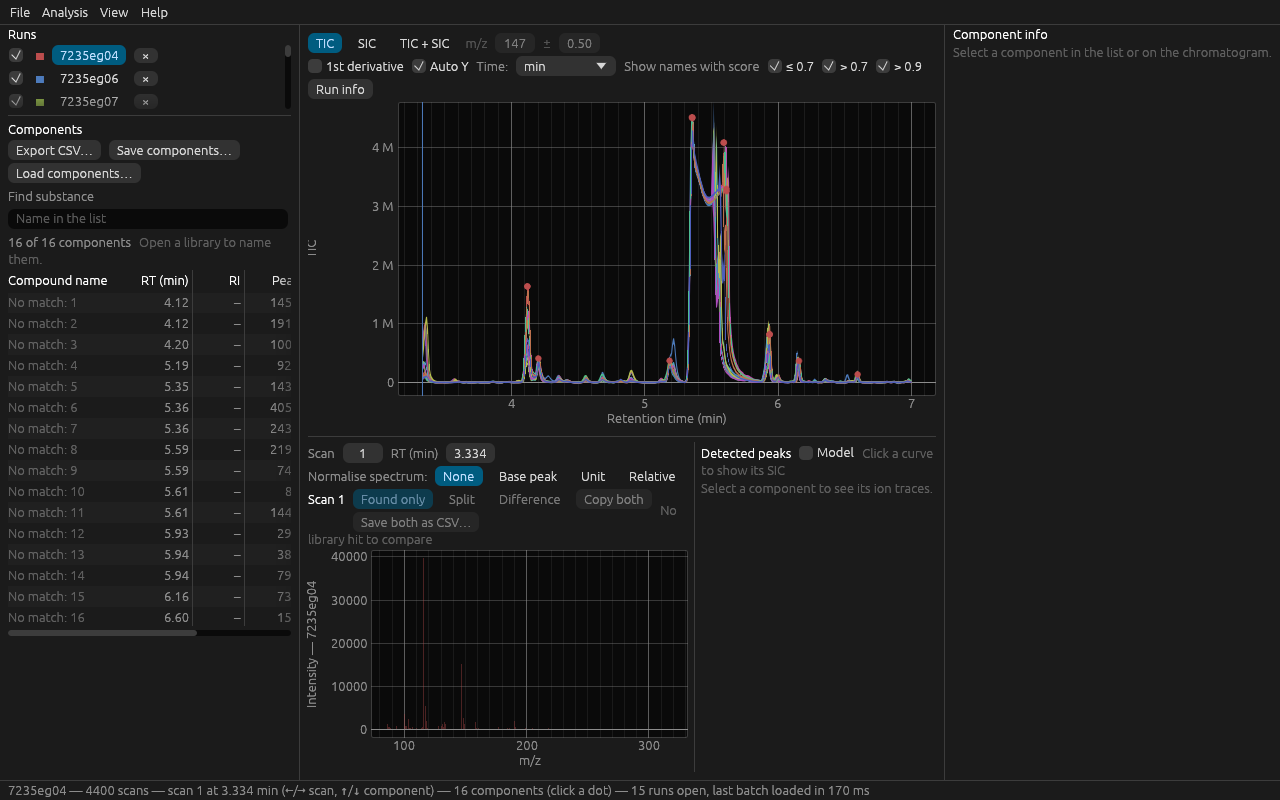
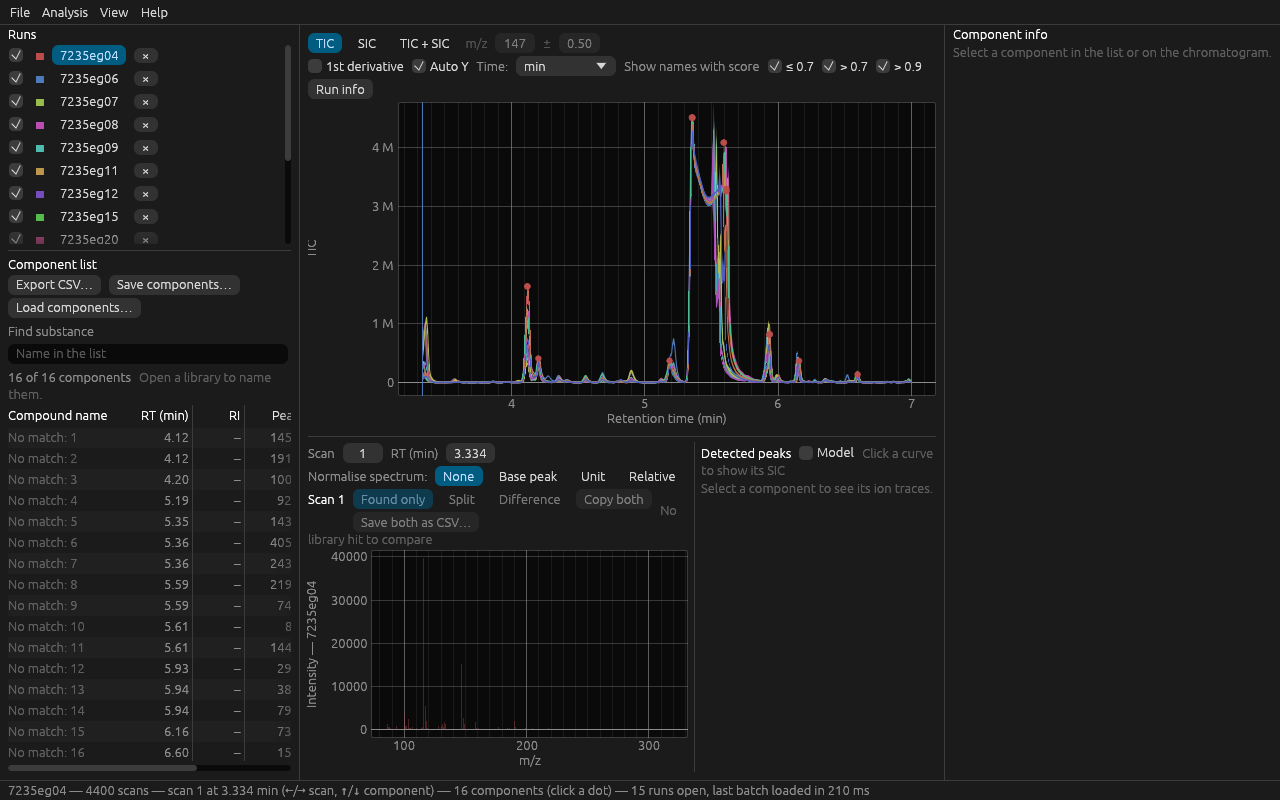
Review-Befunde zu #251
- Component list cache keyed by the run's data (weak) and calibration value, so a closed run
  never shows its rows for another one.
- List and component info use the run's own calibration (Calibration::for_run).
- Left/right arrows leave text fields alone.
- A hidden plot offers no picture export and says how to show it.
- TIC zoom reset keyed by the run's data, not its path.
- Detected Peaks: own zoom per component, a click picks a curve within 12 px.
- Heading "Component list" like the View menu, Clear hover, DESIGN.md line, shared num().

diff --git a/crates/md-app/src/results.rs b/crates/md-app/src/results.rs
@@ -5,9 +5,11 @@
 
 use eframe::egui;
 use egui_extras::{Column, TableBuilder};
+use md_core::Chromatogram;
 use md_core::results::{ResultRow, find_substance, result_rows, write_csv};
 use md_core::ri::RiCalibration;
 use md_core::search::Identification;
+use std::sync::{Arc, Weak};
 
 use crate::Run;
 use crate::identify::Library;
@@ -98,9 +100,13 @@ struct Row {
     ions: usize,
 }
 
-/// What the cached rows were built from: active run, its `rev`, and the calibration used without
-/// a library.
-type Stamp = (usize, u64, Option<usize>);
+/// What the cached rows were built from: the run's data, its `rev`, and the calibration used without
+/// a library. The data is held weakly, so a closed run never matches a new one at the same address.
+type Stamp = (Weak<Chromatogram>, u64, Option<RiCalibration>);
+
+fn same(a: &Stamp, b: &Stamp) -> bool {
+    a.0.ptr_eq(&b.0) && a.1 == b.1 && a.2 == b.2
+}
 
 #[derive(Default)]
 pub struct Results {
@@ -115,22 +121,17 @@ pub struct Results {
 }
 
 impl Results {
-    /// The list of the active run; `cal` gives the RI while no library identified the run.
-    pub fn panel(
-        &mut self,
-        ui: &mut egui::Ui,
-        run: Option<&mut Run>,
-        active: usize,
-        cal: Option<&RiCalibration>,
-    ) {
-        ui.strong("Components");
+    /// The list of the active run; `cal` (the run's calibration) gives the RI while no library
+    /// identified the run.
+    pub fn panel(&mut self, ui: &mut egui::Ui, run: Option<&mut Run>, cal: Option<&RiCalibration>) {
+        ui.strong("Component list");
         let Some(run) = run else {
             return;
         };
         let lib = (run.ident.as_ref()).map(|((lib, ..), ..)| lib.clone());
         let cal = cal.filter(|_| lib.is_none());
-        let stamp = (active, run.rev, cal.map(|c| std::ptr::from_ref(c) as usize));
-        let mut cache = self.cache.take().filter(|c| c.0 == stamp);
+        let stamp = (Arc::downgrade(&run.data), run.rev, cal.cloned());
+        let mut cache = self.cache.take().filter(|c| same(&c.0, &stamp));
         if cache.is_none() {
             cache = Some((stamp, build_rows(run, cal)));
             self.looked_up = None;
@@ -163,7 +164,11 @@ impl Results {
                 }),
             )
             .labelled_by(label.id);
-            if !self.filter.is_empty() && ui.button("Clear").clicked() {
+            if !self.filter.is_empty()
+                && (ui.button("Clear"))
+                    .on_hover_text("Clear the search and show every component")
+                    .clicked()
+            {
                 self.filter.clear();
                 self.looked_up = None;
             }
@@ -446,7 +451,7 @@ fn header_cell(ui: &mut egui::Ui, sort: &mut Option<(Col, bool)>, col: Col) {
 
 /// Cell text as the old table showed it (a missing value as a dash).
 fn cell(r: &Row, col: Col) -> String {
-    let num = |v: Option<f64>, digits: usize| v.map_or("–".into(), |v| format!("{v:.digits$}"));
+    use crate::detail::num;
     let res = &r.res;
     match col {
         Col::Name => res.name.clone(),
@@ -649,7 +654,7 @@ pub(crate) mod tests {
             events,
             ..Default::default()
         };
-        ctx.run_ui(input, |ui| r.panel(ui, Some(run), 0, cal))
+        ctx.run_ui(input, |ui| r.panel(ui, Some(run), cal))
             .textures_delta
             .clear();
     }
@@ -770,5 +775,10 @@ pub(crate) mod tests {
         run.rev += 1;
         draw(&mut r, &mut run, None, Vec::new());
         assert_eq!(r.cache.as_ref().unwrap().1.len(), 1);
+        // Another run with the same `rev` (the active one was closed) gets its own rows.
+        let mut other = super::tests::run();
+        other.rev = run.rev;
+        draw(&mut r, &mut other, None, Vec::new());
+        assert_eq!(r.cache.as_ref().unwrap().1.len(), 2);
     }
 }

diff --git a/crates/md-app/src/central.rs b/crates/md-app/src/central.rs
@@ -5,6 +5,7 @@ use egui_plot::{Bar, BarChart, Line, Plot, Points, Text, VLine};
 
 use crate::plot_export::Area;
 use md_core::decimate;
+use std::sync::Arc;
 
 use crate::{App, Run, Trace, color, detail, export, identify, view::View};
 
@@ -156,6 +157,13 @@ impl App {
             // The chromatogram on top, the spectrum and Detected Peaks side by side below; each
             // split can be dragged, and the top leaves the spectrum at least 160 px.
             let p = self.panels;
+            // A hidden plot has nothing on screen to save as a picture.
+            if !p.chromatogram {
+                self.export.chromatograms = Area::default();
+            }
+            if !p.spectrum {
+                self.export.spectrum = Area::default();
+            }
             let below = p.spectrum || p.detected_peaks;
             let none = egui::Frame::NONE;
             if p.chromatogram && below {
@@ -271,8 +279,11 @@ impl App {
         }
     }
 
-    /// Arrow keys move the scan cursor of the active run.
+    /// Arrow keys move the scan cursor of the active run, unless a text field takes them.
     fn step_scan(&mut self, ui: &egui::Ui) {
+        if ui.ctx().text_edit_focused() {
+            return;
+        }
         let run = &mut self.runs[self.active];
         let last = run.data.scan_count() - 1;
         ui.input(|i| {
@@ -291,9 +302,9 @@ impl App {
         let run = &self.runs[self.active];
         let cursor = run.minutes[run.scan];
         // A zoom belongs to the run it was made on.
-        let reset = self.plotted.as_ref() != Some(&run.path);
+        let reset = !(self.plotted.as_ref()).is_some_and(|p| p.ptr_eq(&Arc::downgrade(&run.data)));
         if reset {
-            self.plotted = Some(run.path.clone());
+            self.plotted = Some(Arc::downgrade(&run.data));
         }
         let plots = if self.trace == Trace::Both { 2.0 } else { 1.0 };
         let gap = ui.spacing().item_spacing.y * (plots - 1.0);

diff --git a/crates/md-app/src/detected_peaks.rs b/crates/md-app/src/detected_peaks.rs
@@ -5,7 +5,12 @@ use eframe::egui;
 use egui_plot::{Line, LineStyle, Plot};
 use md_core::detail::ion_profiles;
 
+use std::sync::Arc;
+
 use crate::{App, Trace, color, detail};
+
+/// A click this close to a curve, vertically, picks its ion.
+const PICK_PX: f32 = 12.0;
 
 impl App {
     pub fn detected_peaks(&mut self, ui: &mut egui::Ui) {
@@ -24,7 +29,8 @@ impl App {
         let profiles = ion_profiles(c, &run.peak_masses, &run.data);
         let picked = |mass: u32| self.trace != Trace::Tic && self.mz == mass as f32;
         let first = f64::from(c.first_scan) + 1.0;
-        let shown = Plot::new("detected peaks")
+        // One plot memory per component, so a zoom on one never hides the next one's curves.
+        let shown = Plot::new(("detected peaks", Arc::as_ptr(&run.data), run.rev, k))
             .x_axis_label("Scan")
             .y_axis_label("Intensity")
             .y_axis_formatter(|m, _| crate::view::compact(m.value, m.step_size))
@@ -49,15 +55,18 @@ impl App {
                 }
                 p.pointer_coordinate()
             });
-        // The curve nearest to the click at that scan.
+        // The curve nearest to the click at that scan, if it passes within `PICK_PX`.
+        let t = &shown.transform;
         if shown.response.clicked()
             && let Some(at) = shown.inner
             && let Some(ion) = (profiles.iter())
                 .filter_map(|ion| {
                     let s = (at.x - first).round();
                     let y = ion.measured.get(usize::try_from(s as i64).ok()?)?;
-                    Some((ion.mass, (y - at.y).abs()))
+                    let px = (t.position_from_point_y(*y) - t.position_from_point_y(at.y)).abs();
+                    Some((ion.mass, px))
                 })
+                .filter(|(_, px)| *px <= PICK_PX)
                 .min_by(|a, b| a.1.total_cmp(&b.1))
         {
             detail::pick_ion(&mut self.mz, &mut self.trace, f64::from(ion.0));

diff --git a/crates/md-app/src/main.rs b/crates/md-app/src/main.rs
@@ -116,7 +116,7 @@ struct App {
     /// Detected Peaks also draws the modelled profile of each ion.
     model_profile: bool,
     /// Run whose TIC zoom is shown; another run starts unzoomed.
-    plotted: Option<PathBuf>,
+    plotted: Option<std::sync::Weak<md_core::Chromatogram>>,
 }
 
 impl Default for App {
@@ -212,7 +212,7 @@ impl eframe::App for App {
                 run,
                 &self.nist,
                 (&mut self.mz, &mut self.trace),
-                self.ri.cal.as_deref(),
+                self.ri.for_run(run),
             )
         {
             self.nist_search();

diff --git a/crates/md-app/src/plot_export.rs b/crates/md-app/src/plot_export.rs
@@ -78,6 +78,10 @@ pub fn button(ui: &mut egui::Ui, area: Area, stem: &str) {
 
 /// The menu entries: pictures of the plot and their size.
 pub fn entries(ui: &mut egui::Ui, area: Area, stem: &str) {
+    if !area.rect.is_positive() {
+        ui.weak("Show the plot to save it as a picture (View menu).");
+        return;
+    }
     let ctx = ui.ctx().clone();
     let mut size: [f32; 2] = ctx.data(|d| d.get_temp(size_id())).unwrap_or_default();
     for (label, hint, kind, ext, name) in [

diff --git a/crates/md-app/src/run_list.rs b/crates/md-app/src/run_list.rs
@@ -29,8 +29,8 @@ impl App {
                 self.run_list(ui);
             }
             if p.components {
-                let cal = self.ri.cal.as_deref();
-                (self.results).panel(ui, self.runs.get_mut(self.active), self.active, cal);
+                let cal = (self.runs.get(self.active)).and_then(|r| self.ri.for_run(r).cloned());
+                (self.results).panel(ui, self.runs.get_mut(self.active), cal.as_ref());
             }
         });
     }

diff --git a/crates/md-app/src/layout.rs b/crates/md-app/src/layout.rs
@@ -354,7 +354,7 @@ mod tests {
             "Library editor",
             "Add component to library",
             "Copy retention times",
-            "Components",
+            "Component list",
             "Detected peaks",
             "Biomarker statistics",
             "Substance 0",

diff --git a/crates/md-app/src/detail.rs b/crates/md-app/src/detail.rs
@@ -147,7 +147,7 @@ pub fn panel(
 }
 
 /// A value or a dash.
-fn num(v: Option<f64>, decimals: usize) -> String {
+pub(crate) fn num(v: Option<f64>, decimals: usize) -> String {
     v.map_or("–".into(), |v| format!("{v:.decimals$}"))
 }
 

diff --git a/DESIGN.md b/DESIGN.md
@@ -182,6 +182,8 @@ Small, quiet corners: 4 px on static widgets, 6 px on controls, windows and menu
 
 ### Lists and tables
 - Run list rows: visibility checkbox, colour swatch, selectable name, close button; full path on hover.
+- Component list: a virtualised `TableBuilder` with sortable headers; a click or ↑/↓ selects a row,
+  and the selection scrolls into view.
 - Tables: striped `Grid`, `strong` header row, numbers with fixed decimals.
 
 ### Plots (signature component)
